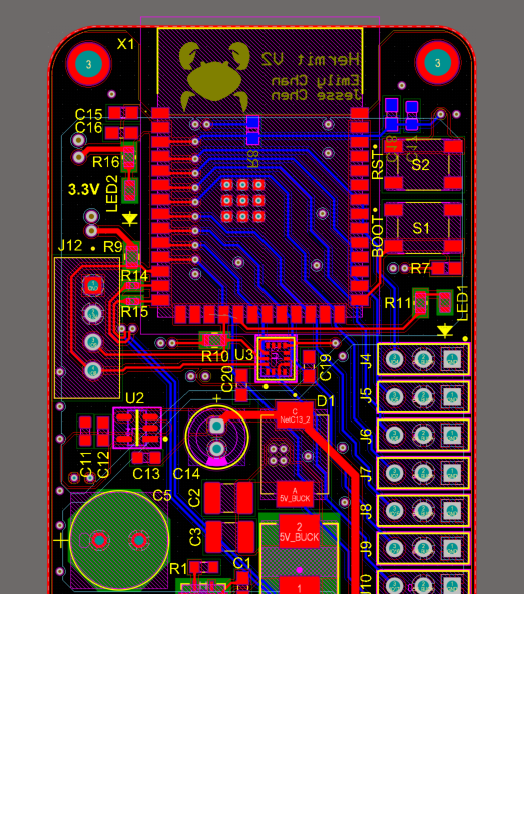
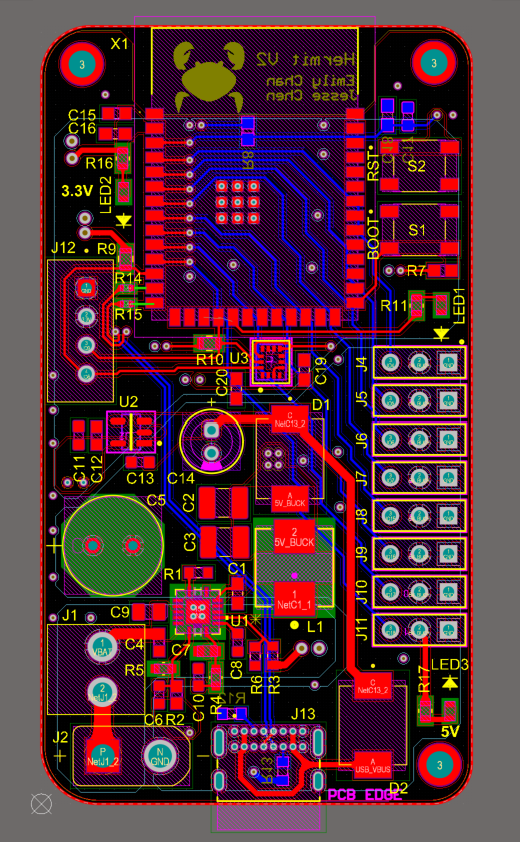
docs: update documentation with impedance matching information

diff --git a/hardware/pcb/v2/README.md b/hardware/pcb/v2/README.md
@@ -7,14 +7,14 @@ Version 1 successfully validated the core power architecture. The ESP32-S3 opera
 ### Issues with V1
 
 - ESP32 received power, but was not recognized as a valid device by USB.
-- Data lines were not properly impedance matched (the USB D+ and D− signals must be routed as a 90 Ω ± 10% differential pair).
+- Data lines were not properly impedance matched (the USB D+ and D− signals must be routed as a 90Ω ± 10% differential pair).
 
 ## Changes in V2
 
 - Added power indicator LEDs for immediate visual confirmation of each power rail, eliminating the need to probe with a DMM during bring-up.
 - Removed the temporary block-terminal current measurement point used during V1 validation.
 - Optimized component placement and routing to reduce the overall PCB footprint.
-- Used layer stackup information from our fabricator (JLC PCB) and Altium's trace impedance calculator to determine the exact trace width and spacing needed to meet USB impedance requirements.
+- Used layer stackup information from our fabricator ([JLC PCB](https://jlcpcb.com/impedance)) and Altium's trace impedance calculator to determine the exact trace width and spacing needed to meet USB impedance requirements.
 
 ## Altium Layouts
 
